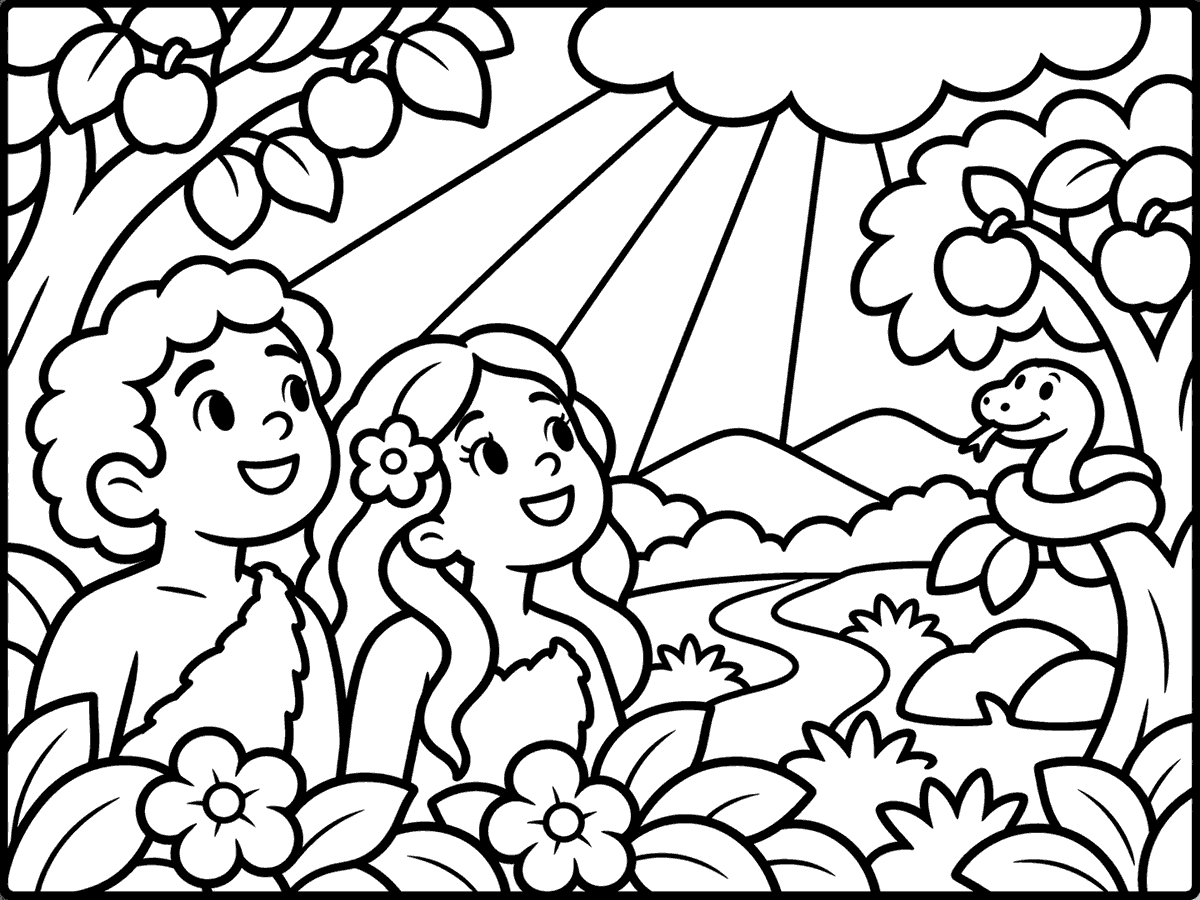
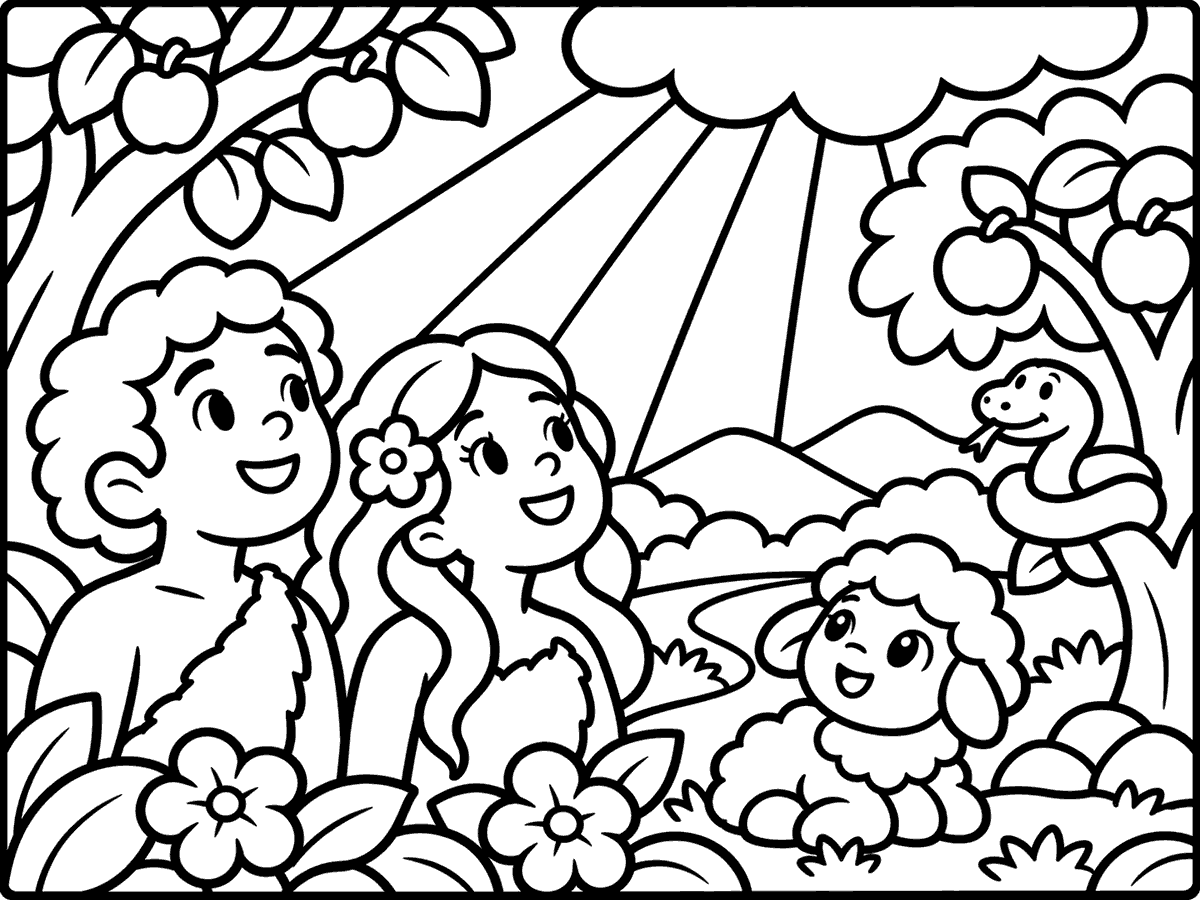
Beta: desenho da porta 1 com a ovelhinha
Claude-Session: https://claude.ai/code/session_01K2VXyFiT7zoPcX7tHk3zoS

diff --git a/beta/sw.js b/beta/sw.js
@@ -1,5 +1,5 @@
 /* Jogos Bíblicos — funciona sem internet. Versão: claude-v2.1-nine5 */
-const CACHE = 'jb-beta-claude-v2.4-advento7';
+const CACHE = 'jb-beta-claude-v2.4-advento8';
 const ASSETS = ['./', './Cinzel-Variable.woff', './Lora-Italic-Variable.woff', './Lora-Variable.woff', './app.css', './aurora.svg', './campo.svg', './cidade.svg', './confins.svg', './core.js', './dados-caca.js', './dados-cartas.js', './dados-colorir.js', './dados-cruzada.js', './dados-historia1.js', './dados-historia10.js', './dados-historia11.js', './dados-historia12.js', './dados-historia13.js', './dados-historia14.js', './dados-historia15.js', './dados-historia16.js', './dados-historia17.js', './dados-historia18.js', './dados-historia19.js', './dados-historia2.js', './dados-historia20.js', './dados-historia21.js', './dados-historia22.js', './dados-historia23.js', './dados-historia24.js', './dados-historia25.js', './dados-historia26.js', './dados-historia27.js', './dados-historia28.js', './dados-historia29.js', './dados-historia3.js', './dados-historia30.js', './dados-historia31.js', './dados-historia32.js', './dados-historia33.js', './dados-historia34.js', './dados-historia4.js', './dados-historia5.js', './dados-historia6.js', './dados-historia7.js', './dados-historia8.js', './dados-historia9.js', './dados-kids.js', './dados-ligacoes.js', './dados-memoria.js', './dados-natal.js', './dados-advento.js', './natal-estrela.webp', './natal-manjedoura.webp', './natal-lanterna.webp', './natal-belem.webp', './dados-palavra.js', './dados-quem.js', './dados-quiz.js', './dados-roda.js', './dados-tempo.js', './dados-versiculos.js', './deserto.svg', './galileia.svg', './hat.png', './hub.js', './icon-180.png', './icon-192.png', './icon-512.png', './index.html', './jardim.svg', './jogo-caca.js', './jogo-cartas.js', './jogo-colorir.js', './jogo-cruzada.js', './jogo-historia.js', './jogo-kids.js', './jogo-labirinto.js', './jogo-ligacoes.js', './jogo-memoria.js', './jogo-natal.js', './jogo-palavra.js', './jogo-quebra.js', './jogo-quem.js', './jogo-quiz.js', './jogo-roda.js', './jogo-tempo.js', './jogo-versiculo.js', './kit.js', './manifest.webmanifest', './mar.svg', './monte.svg', './nine-dica-pisca.webp', './nine-dica.webp', './nine-dormindo.webp', './nine-festa.webp', './nine-lendo-pisca.webp', './nine-lendo.webp', './nine-oi-pisca.webp', './nine-oi.webp', './nine-pensando-pisca.webp', './nine-pensando.webp', './nine-rosto.webp', './nine-sarca.webp', './nine.js', './noite.svg', './palacio.svg', './solver.js', './tumba.jpg'];
 self.addEventListener('install', e => { e.waitUntil(caches.open(CACHE).then(c => c.addAll(ASSETS)).then(() => self.skipWaiting())); });
 self.addEventListener('activate', e => { e.waitUntil(caches.keys().then(ks => Promise.all(ks.filter(k => k !== CACHE && k.startsWith('jb-beta')).map(k => caches.delete(k)))).then(() => self.clients.claim())); });

diff --git a/beta/dados-colorir.js b/beta/dados-colorir.js
@@ -614,7 +614,7 @@ window.COLORIR_DATA = {
 "win": "Deus prometeu um Salvador que venceria o mal.",
 "w": 1200,
 "h": 900,
-"r": 114
+"r": 117
 }
 ]
 };
